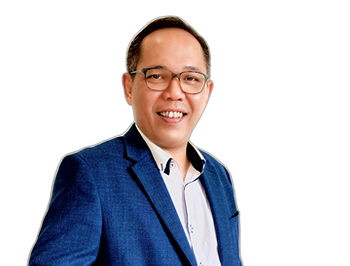
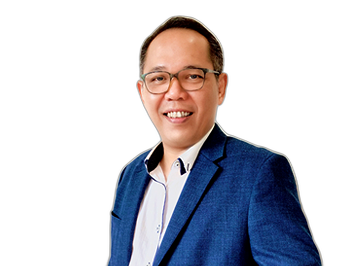
style: horizontally flip portrait of teacher Athasart and bump query cache-buster version to v=3

diff --git a/app/[lang]/people/teachers/page.tsx b/app/[lang]/people/teachers/page.tsx
@@ -130,7 +130,7 @@ export default async function TeachersPage({
               {/* Full Background Portrait Image */}
               {teacher.photo ? (
                 <img
-                  src={`${teacher.photo}?v=2`}
+                  src={`${teacher.photo}?v=3`}
                   alt={name}
                   className="absolute inset-0 w-full h-full object-cover transition-transform duration-500 group-hover:scale-105 z-0"
                 />

diff --git a/components/layout/people-slider.tsx b/components/layout/people-slider.tsx
@@ -189,7 +189,7 @@ export default function PeopleSlider({ lang, title }: PeopleSliderProps) {
             >
               {/* Full Background Portrait Image */}
               <img
-                src={`${person.image}?v=2`}
+                src={`${person.image}?v=3`}
                 alt={lang === "th" ? person.nameTh : person.nameEn}
                 className="absolute inset-0 w-full h-full object-cover transition-transform duration-500 group-hover:scale-105 z-0"
               />